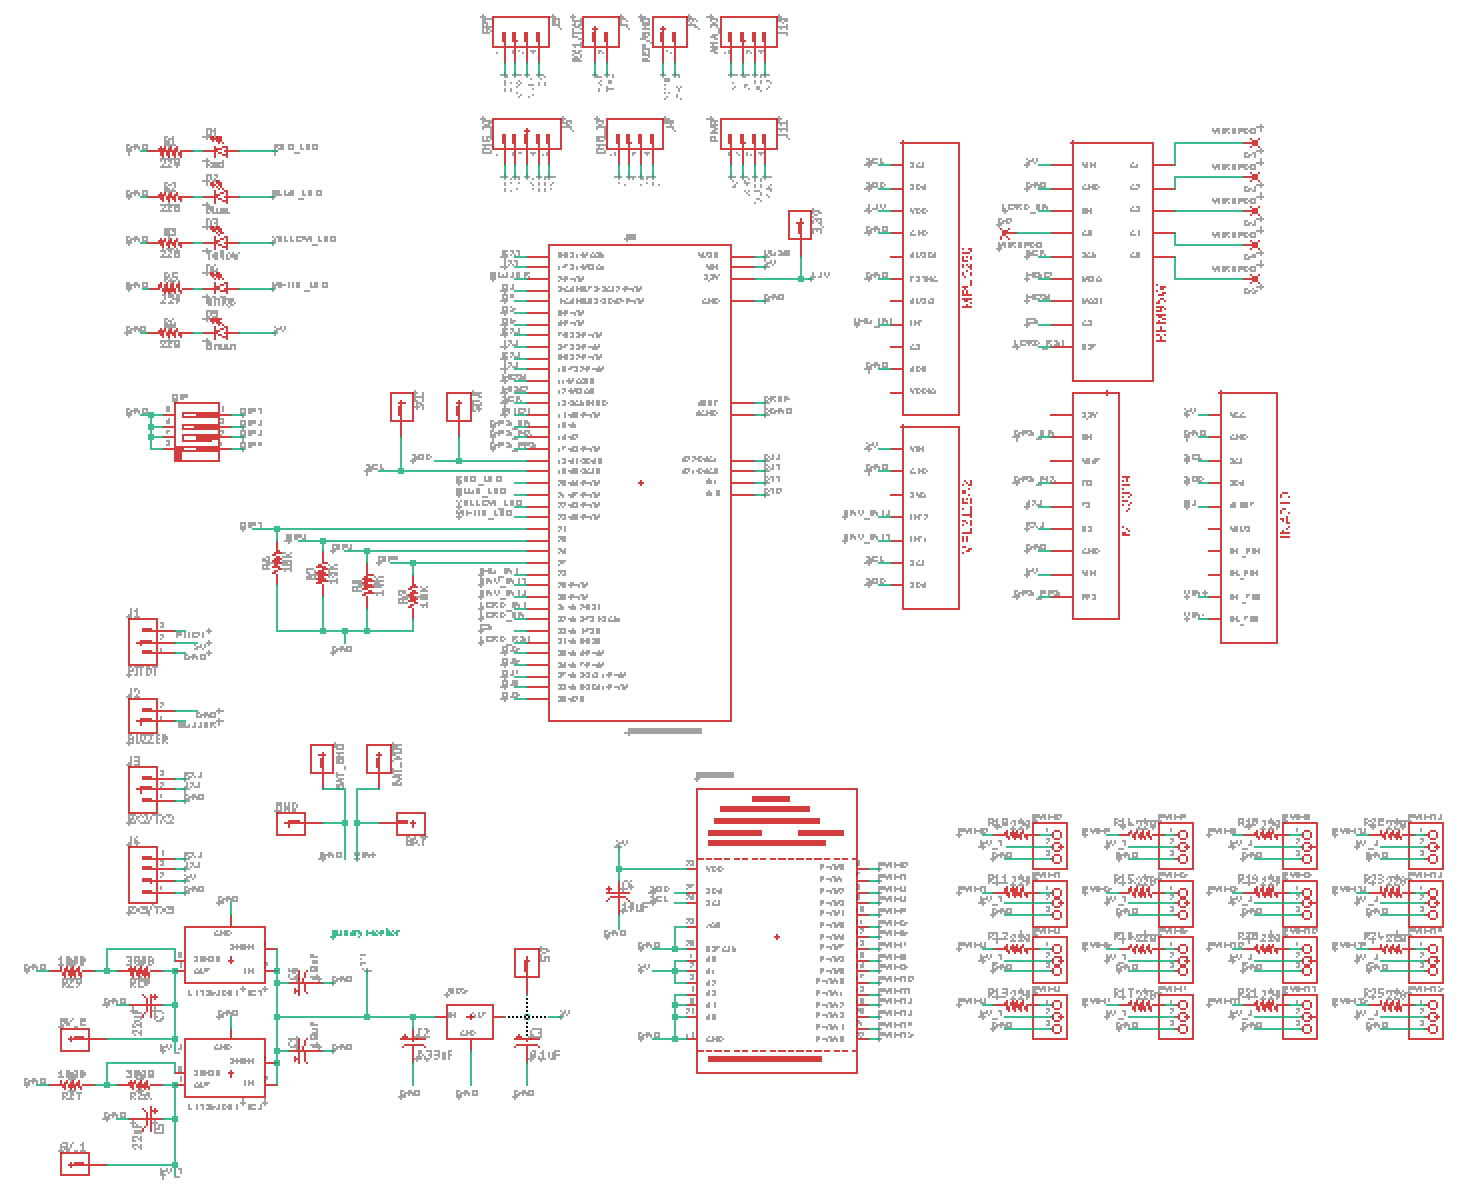
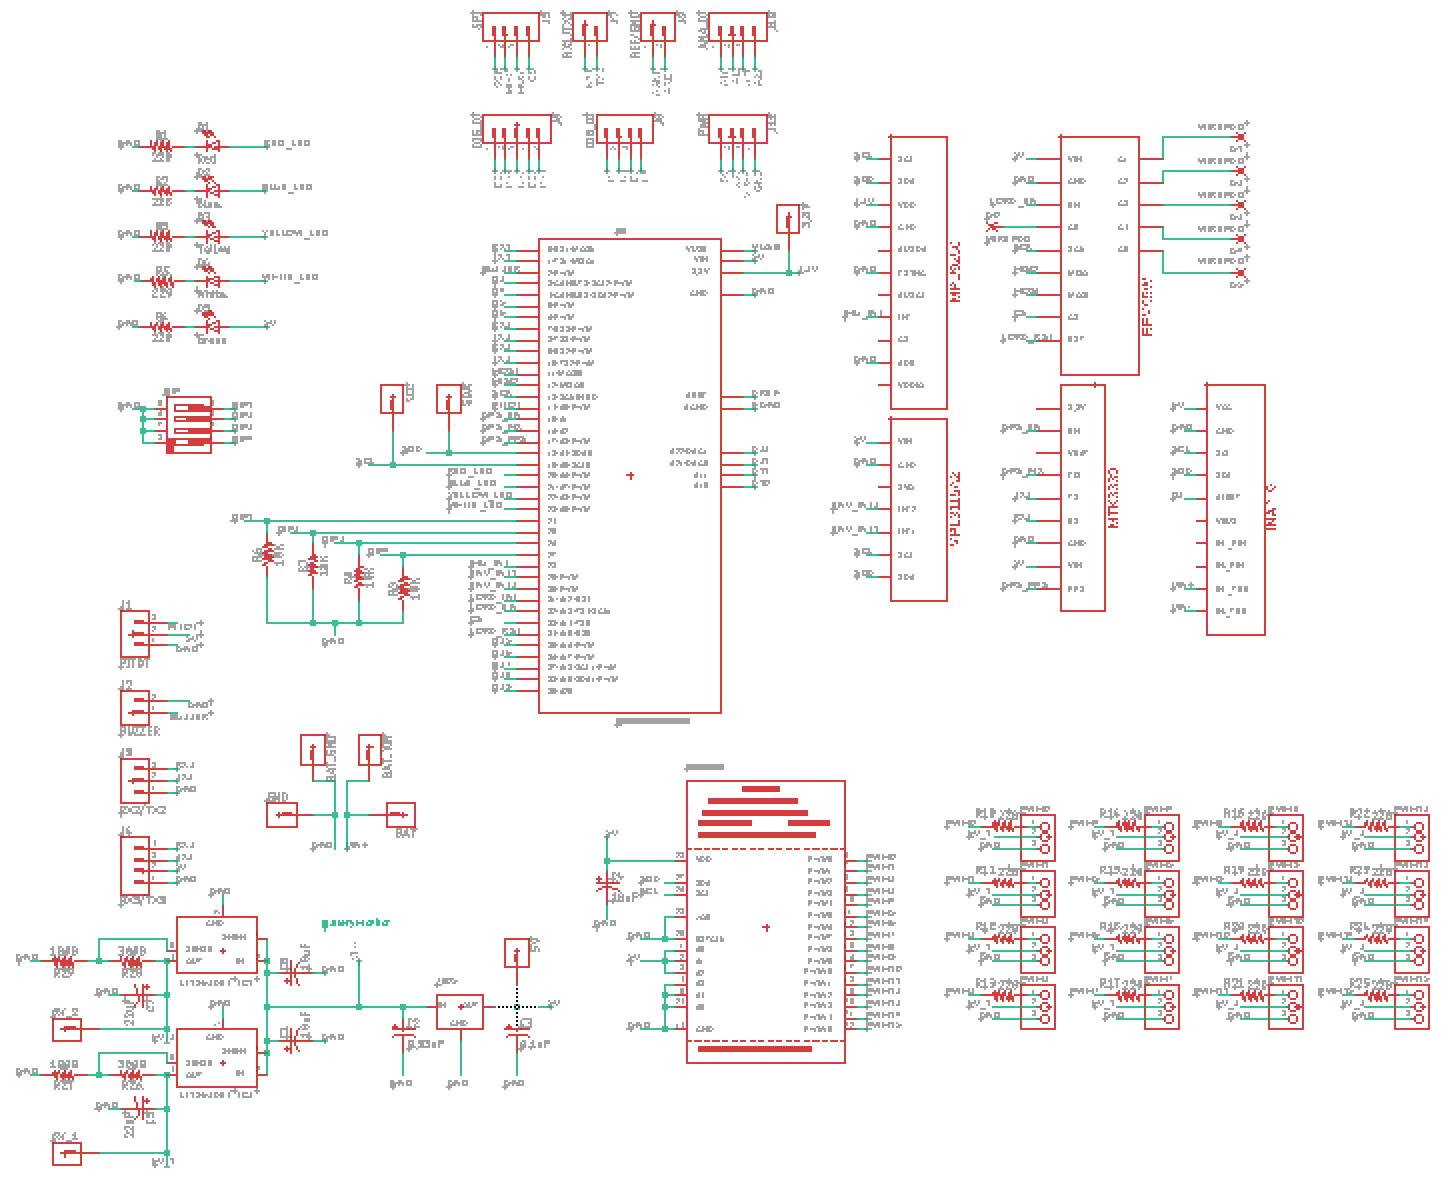
Finished re-route

diff --git a/README.md b/README.md
@@ -38,7 +38,7 @@ Below are screenshots of the current revision of the schematic and board (create
 - [x] Create schematic
 - [x] Layout board
 - [x] Route board
-- [ ] Re-Route board (lol)
+- [x] Re-Route board (lol)
 - [ ] Add Aero Design logo to board
 - [ ] Order board
 - [ ] Test board
